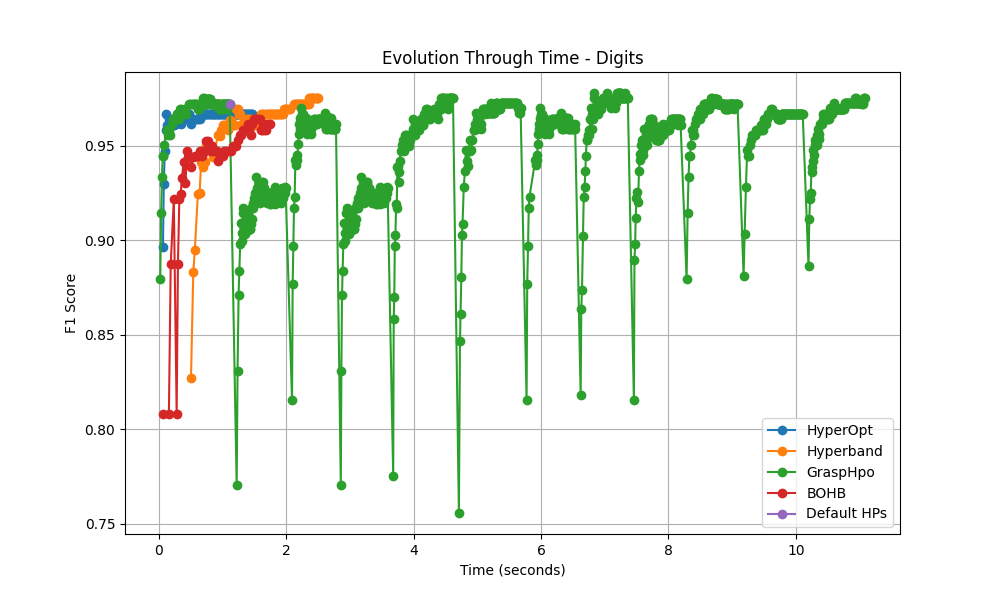
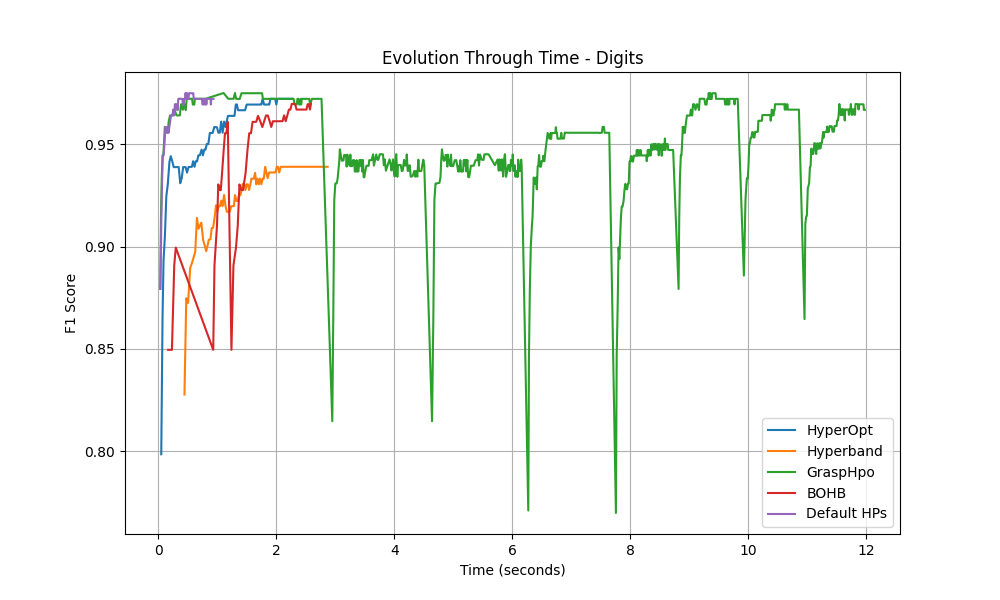
Add evolution through time for default hps

diff --git a/src/hpo/benchmark/default.py b/src/hpo/benchmark/default.py
@@ -8,7 +8,20 @@ import time
 
 class Default(HPOStrategy):
     def hyperparameter_optimization(self,  x_train, x_test, y_train, y_test, search_space):
-        def evaluate_f1_score(predt: np.ndarray, dtrain: xgboost.DMatrix) -> tuple[str, float]:
+        start_time = time.time()
+
+        # Define the custom evaluation function inside evaluate_solution to record time of each iteration
+        class TimeEvaluationCallback(xgboost.callback.TrainingCallback):
+            def __init__(self):
+                super().__init__()
+                self.times = []
+
+            def after_iteration(self, model, epoch, evals_log):
+                current_time = time.time()
+                self.times.append(current_time - start_time)
+                return False  # Return False to continue training
+
+        def evaluate_f1_score(predt: np.ndarray, dtrain: xgboost.DMatrix) -> np.ndarray:
             """Compute the f1 score"""
             y = dtrain.get_label()
             if len(np.unique(y)) == 2:
@@ -20,7 +33,6 @@ class Default(HPOStrategy):
                                                                                                                average="weighted")
             return "f1_score", f1
 
-        start_time = time.time()
         params = {}
         class_quantity = len(np.unique(y_train))
         if class_quantity > 2:
@@ -31,6 +43,9 @@ class Default(HPOStrategy):
         test_set = xgboost.DMatrix(data=x_test, label=y_test)
 
         evals_result = {}
+
+        time_callback = TimeEvaluationCallback()
+
         xgboost.train(
             params,
             train_set,
@@ -38,10 +53,11 @@ class Default(HPOStrategy):
             verbose_eval=False,
             custom_metric=evaluate_f1_score,
             num_boost_round=100,
-            evals_result=evals_result
+            evals_result=evals_result,
+            callbacks=[time_callback]
         )
+        round_times = time_callback.times
 
-        score = evals_result['eval']['f1_score'][-1]
+        f1_scores_per_round = evals_result['eval']['f1_score']
 
-        elapsed_time = time.time() - start_time
-        return params, score, ([score], [elapsed_time])
+        return params, max(f1_scores_per_round), (f1_scores_per_round, round_times)

diff --git a/src/output/chart_builder.py b/src/output/chart_builder.py
@@ -9,14 +9,14 @@ def plot_final_metrics(data, save_path):
     fig, (ax1, ax2) = plt.subplots(1, 2, figsize=(14, 6))
 
     f1_score_df = df.pivot(index="input", columns="hpo_strategy", values="f1_score")
-    f1_score_df.plot(kind="line", ax=ax1, marker='o', linestyle='dashed')
+    f1_score_df.plot(kind="line", ax=ax1, linestyle='dashed')
     ax1.set_ylabel("F1 Score")
     ax1.set_xlabel("Dataset")
     ax1.set_title("F1 Score Comparison: GRASP vs. Hyperband")
     ax1.legend(title="HPO Strategy results")
 
     time_df = df.pivot(index="input", columns="hpo_strategy", values="evaluation_time")
-    time_df.plot(kind="line", ax=ax2, marker='o')
+    time_df.plot(kind="line", ax=ax2)
     ax2.set_ylabel("Evaluation Time (s)")
     ax2.set_xlabel("Dataset")
     ax2.set_title("Evaluation Time Comparison: GRASP vs. Hyperband")
@@ -37,7 +37,7 @@ def plot_evolution_through_time(data, dataset_names, output_path):
         for item in data:
             if item['input'] == dataset_name:
                 strategy, f1_scores, times = item["hpo_strategy"], item["evolution_through_time"][0], item["evolution_through_time"][1]
-                plt.plot(times, f1_scores, marker='o', label=f"{strategy}")
+                plt.plot(times, f1_scores, label=f"{strategy}")
 
         plt.title(f'Evolution Through Time - {dataset_name}')
         plt.xlabel('Time (seconds)')

diff --git a/src/hpo/grasp/grasp_hpo.py b/src/hpo/grasp/grasp_hpo.py
@@ -10,7 +10,7 @@ from src.hpo.grasp.phase2grasp import LocalSearch
 
 LOCAL_SEARCH_ITERATIONS = 2
 LOCAL_SEARCH_TIMELIMIT = 20
-BUILDING_PHASE_ITERATIONS = 2
+BUILDING_PHASE_ITERATIONS = 1
 BUILDING_PHASE_TIMELIMIT = 20
 INTERMEDIATE_RESULTS_SIZE = 5
 
